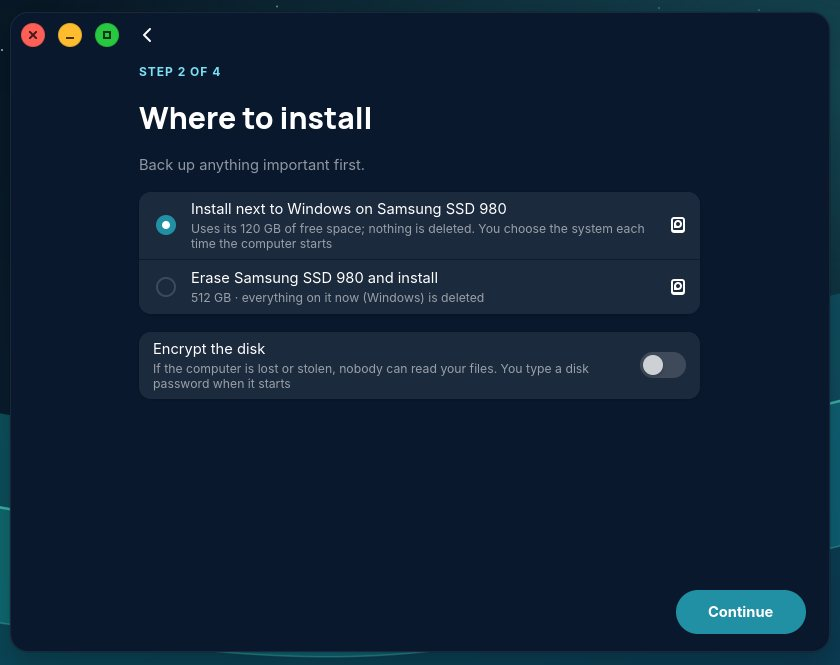
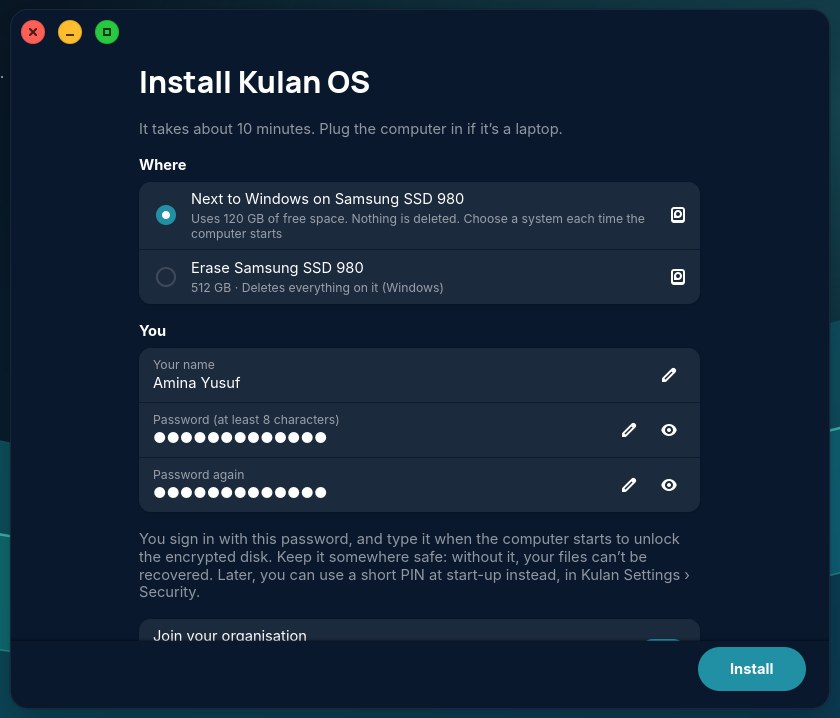
Kulan OS 2.10: version, release notes, USB Maker on releases, install guide

diff --git a/ci/build-website.py b/ci/build-website.py
@@ -26,6 +26,9 @@ WEB = ROOT / "website"
 NOTES = ROOT / "packages/kulan-update-center/root/usr/share/kulan/release-notes.json"
 REPO = os.environ.get("GITHUB_REPOSITORY", "mmohamud25/kulan-os")
 RELEASES = f"https://github.com/{REPO}/releases"
+# Kulan USB Maker, on every release (ci/make-release.sh).
+USB_MAKER_WINDOWS = f"{RELEASES}/latest/download/Kulan-USB-Maker-Windows.exe"
+USB_MAKER_MAC = f"{RELEASES}/latest/download/Kulan-USB-Maker-Mac.dmg"
 DOWNLOAD = f"{RELEASES}/latest/download"
 SUPPORT = "support@kulangroup.com"
 SECURITY = "security@kulangroup.com"
@@ -237,12 +240,12 @@ def download() -> str:
 
 def install() -> str:
     flow = (
-        '<div class="flow" role="img" aria-label="balenaEtcher: pick the .iso, pick the USB stick, then Flash">'
-        '<span><i><svg viewBox="0 0 24 24" fill="none" stroke="#2dd4bf" stroke-width="2" aria-hidden="true"><circle cx="12" cy="12" r="9"/><circle cx="12" cy="12" r="2.5"/></svg></i>Pick the .iso</span>'
-        '<svg viewBox="0 0 24 24" fill="none" stroke="#3a4d66" stroke-width="2" stroke-linecap="round" aria-hidden="true"><path d="M5 12h14"/><path d="m13 6 6 6-6 6"/></svg>'
+        '<div class="flow" role="img" aria-label="Kulan USB Maker: pick the USB stick, click Make, wait until it says it’s ready">'
         '<span><i><svg viewBox="0 0 24 24" fill="none" stroke="#2dd4bf" stroke-width="2" stroke-linecap="round" aria-hidden="true"><rect x="7" y="9" width="10" height="13" rx="2"/><path d="M9 9V3h6v6"/></svg></i>Pick the USB stick</span>'
         '<svg viewBox="0 0 24 24" fill="none" stroke="#3a4d66" stroke-width="2" stroke-linecap="round" aria-hidden="true"><path d="M5 12h14"/><path d="m13 6 6 6-6 6"/></svg>'
-        '<span><i class="go"><svg viewBox="0 0 24 24" fill="none" stroke="#04201d" stroke-width="2" stroke-linejoin="round" aria-hidden="true"><path d="M13 2 4 14h7l-1 8 9-12h-7z"/></svg></i>Flash</span>'
+        '<span><i class="go"><svg viewBox="0 0 24 24" fill="none" stroke="#04201d" stroke-width="2" stroke-linejoin="round" aria-hidden="true"><path d="M13 2 4 14h7l-1 8 9-12h-7z"/></svg></i>Make</span>'
+        '<svg viewBox="0 0 24 24" fill="none" stroke="#3a4d66" stroke-width="2" stroke-linecap="round" aria-hidden="true"><path d="M5 12h14"/><path d="m13 6 6 6-6 6"/></svg>'
+        '<span><i><svg viewBox="0 0 24 24" fill="none" stroke="#2dd4bf" stroke-width="2" stroke-linecap="round" stroke-linejoin="round" aria-hidden="true"><path d="m5 12 5 5 9-10"/></svg></i>Ready</span>'
         '</div>')
     keys = "".join(f"<div><strong>{b}</strong> {k}</div>" for b, k in (
         ("Dell", "F12"), ("HP", "F9 or Esc"), ("Lenovo", "F12"), ("Acer", "F12"), ("ASUS", "F8 or Esc"),
@@ -257,7 +260,7 @@ def install() -> str:
 <h2>On a PC</h2>
 <div class="note">
 <h3>Will this delete Windows?</h3>
-<p>Only if you choose to. Trying {e(NAME)} from the USB stick changes nothing on your computer. When you install, choose <strong>Erase disk</strong> to have only {e(NAME)}, or <strong>Install next to Windows</strong> to keep both and pick one each time you start.</p>
+<p>Only if you choose to. Trying {e(NAME)} from the USB stick changes nothing on your computer. When you install, choose <strong>Erase</strong> to have only {e(NAME)}, or <strong>Next to Windows</strong> to keep both and pick one each time you start.</p>
 <p>To keep Windows, do this in Windows first:</p>
 <ol>
 <li><strong>Back up</strong> your important files.</li>
@@ -268,8 +271,8 @@ def install() -> str:
 </div>
 <div class="step"><div>
 <div class="step-title"><span class="num">1</span><h3>Make a USB stick</h3></div>
-<p><a href="/download/">Download {e(NAME)} for PC</a>, then open balenaEtcher, a free app for Windows, Mac and Linux. Choose Flash from file, pick the .iso, choose your USB stick and click Flash. Everything on the stick is erased.</p>
-<p class="muted">On Windows, Rufus works too. Choose “DD image” mode when it asks.</p>
+<p>Get Kulan USB Maker for <a href="{USB_MAKER_WINDOWS}">Windows</a> or <a href="{USB_MAKER_MAC}">Mac</a>, plug in a USB stick of 8 GB or more, pick it and click Make. It downloads {e(NAME)}, checks it’s genuine and writes the stick, then shows the key that starts your computer from it. Everything on the stick is erased.</p>
+<p class="muted">The first time you open it, Windows may say it protected your PC: choose More info, then Run anyway. On a Mac, open it once, then choose Open Anyway in System Settings › Privacy &amp; Security. Rather use your own tool? <a href="/download/">Download the .iso</a> and write it with balenaEtcher, Raspberry Pi Imager (Use custom) or, on Windows, Rufus in DD image mode.</p>
 </div><figure>{flow}</figure></div>
 <div class="step"><div>
 <div class="step-title"><span class="num">2</span><h3>Start from the USB stick</h3></div>
@@ -287,9 +290,10 @@ def install() -> str:
 <li><strong>You:</strong> your name and a password. The password signs you in and unlocks the encrypted disk when the computer starts.</li>
 <li><strong>Install.</strong> Language, keyboard and time zone are filled in for you. To change them, open More choices.</li>
 </ol>
-<p>Nothing on the computer changes until you click Install. Installing takes about ten minutes and doesn’t need the internet. When it’s done, restart, remove the stick and sign in.</p>
-</div><figure><img src="/images/installer-disk.jpg" width="840" height="665" alt="Kulan Installer’s one screen, offering to install next to Windows" loading="lazy"></figure></div>
-<p class="muted" style="font-size:15px">Want to choose partitions yourself? Open Advanced install from the app grid instead.</p>
+<p>Nothing on the computer changes until you click Install. Installing takes about ten minutes and doesn’t need the internet. When it’s done, the last screen shows an eight-digit code: write it down, restart, and remove the stick when the screen goes dark.</p>
+<p>At that first restart, a blue screen asks once to enroll your computer’s own start-up key, so nobody can change how it starts without you knowing. Press any key, choose Enroll MOK, then Continue, then Yes, type the eight digits and choose Reboot. Then type your password to unlock the disk, and sign in. Missed the blue screen? {e(NAME)} starts as usual and asks again next time; the code is in Kulan Settings › Security.</p>
+</div><figure><img src="/images/installer-disk.jpg" width="840" height="718" alt="Kulan Installer’s one screen, offering to install next to Windows" loading="lazy"></figure></div>
+<p class="muted" style="font-size:15px">Want to choose partitions yourself? Open More choices in the installer, then Advanced install.</p>
 </section>
 <section class="band" id="mac">
 <div class="wrap">
@@ -363,7 +367,7 @@ def help_page() -> str:
         ("How do I back up my files?", "Open Backups from the app grid and choose an external drive or network "
                                        "folder. It can back up automatically every day."),
         ("My computer won’t start from the USB stick", "Try another USB port, make the stick again with "
-                                                       "balenaEtcher, and check the boot-menu key for your computer "
+                                                       "Kulan USB Maker, and check the boot-menu key for your computer "
                                                        "in the <a href=\"/install/\">install guide</a>."),
     ]
     items = "".join(f"<details><summary>{e(q)}</summary><p>{a}</p></details>" for q, a in faq)
